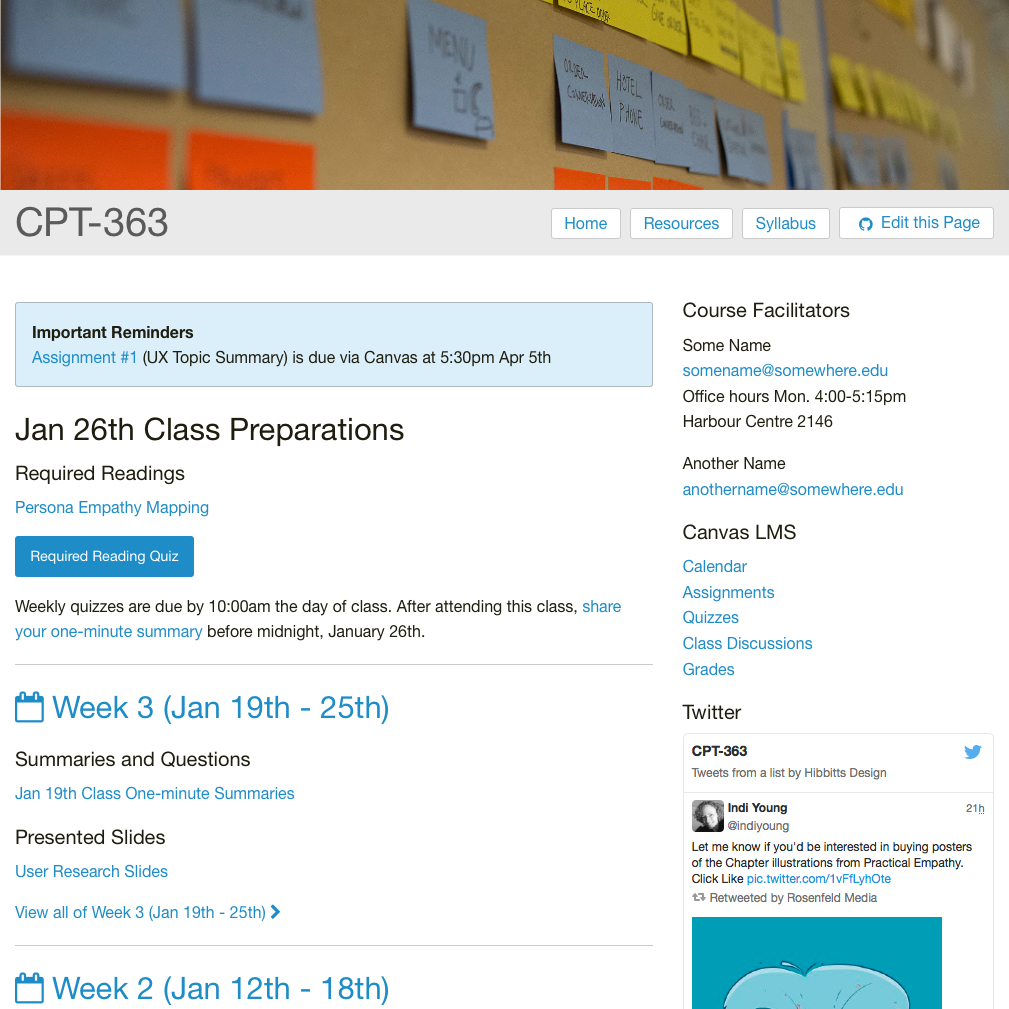
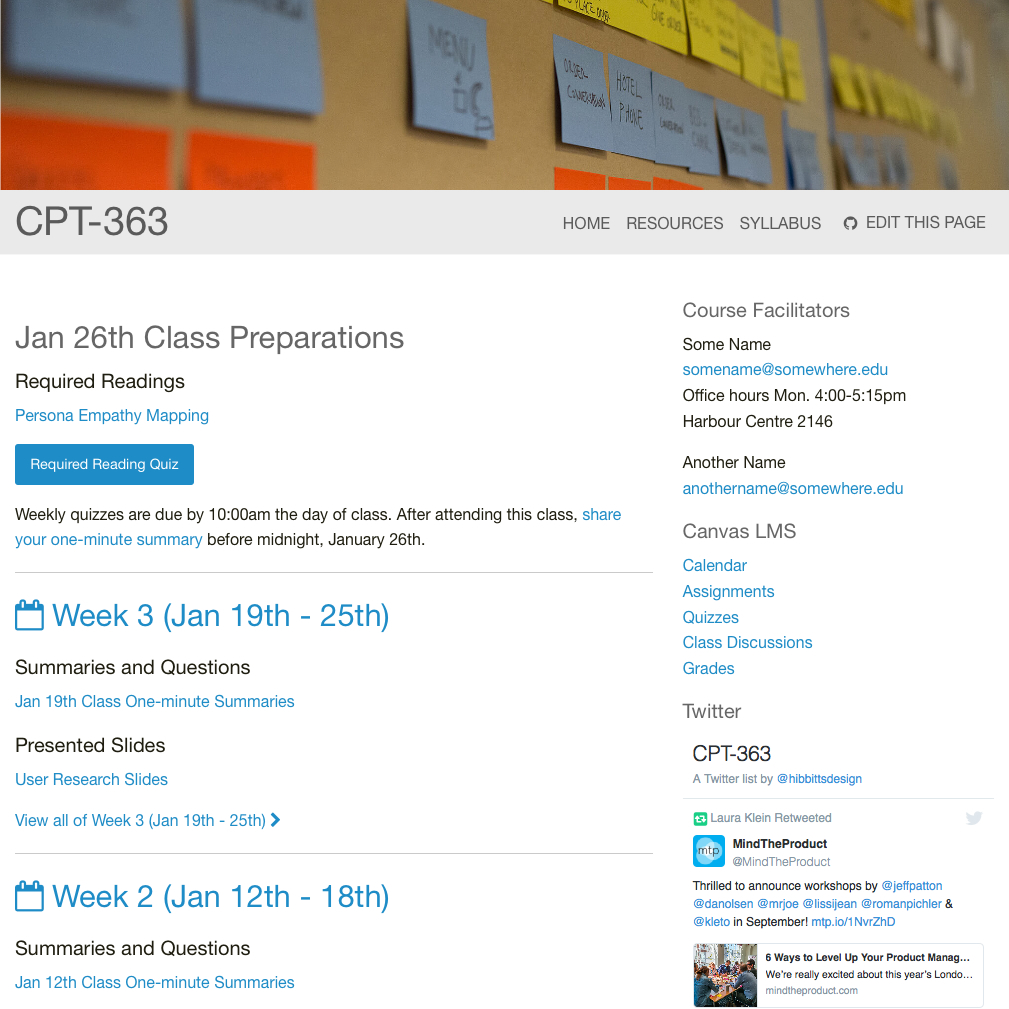
theme

diff --git a/user/themes/course-hub-bones/css/custom.css b/user/themes/course-hub-bones/css/custom.css
@@ -1,8 +1,38 @@
-#sg-mainmenu .menu > li > a {
-  padding: .4rem 0.4rem;
-  border: 1px solid;
+#sg-mainmenu .menu > li > a, #sg-mainmenu .menu > li.active > a {
+  color: #5A5A5A;
+  background-color: transparent;
+  padding: 14px 8px 14px;
+  border: 0;
   border-radius: 3px;
-  margin-left: .4rem;
+  margin-left: 0;
+  text-transform: uppercase;
+}
+
+#sg-mainmenu .menu > li > a:hover, #sg-mainmenu .menu > li.active > a:hover {
+  color: #fff;
+  background-color: #a0a0a0!important;
+  border: 0;
+}
+
+#sg-mainmenu .menu > li.active > a, #sg-mainmenu-mobile .menu > li.active > a {
+    background-color: transparent!important;
+}
+
+.sg-header {
+  height: 64px;
+  padding-top: 0;
+  padding-bottom: 0;
+}
+
+#header #sg-header-title h2 {
+    font-family: "Helvetica Neue",Helvetica,Roboto,Arial,sans-serif !important;
+    float: left;
+    letter-spacing: 0;
+    line-height: 60px;
+    margin: 16,6,6,6px;
+    padding: 0;
+    text-decoration: none;
+    color: #5A5A5A;
 }
 
 .sidebar-content h5 {
@@ -13,10 +43,6 @@
   text-align: center;
   font-size: 4em;
 }
-
-.sg-header {
-  padding-top: .45rem;
-  padding-bottom: 0.1rem; }
 
 #header {
     background-color: #eaeaea!important;
@@ -52,26 +78,8 @@
     }
 }
 
-#header #sg-header-title h2 {
-    font-family: "Helvetica Neue",Helvetica,Roboto,Arial,sans-serif !important;
-    float: left;
-    letter-spacing: 0;
-    line-height: 48px;
-    margin: 16,6,6,6px;
-    padding: 0;
-    text-decoration: none;
-}
-
-#header {
-    background-color: #fafafa;
-}
-
 #sg-mainmenu .menu > li.active > a, #sg-mainmenu-mobile .menu > li.active > a {
     background-color: #ffffff;
-}
-
-#header #sg-header-title h2 {
-    color: #5A5A5A;
 }
 
 .topstickypost h3 {

diff --git a/user/themes/course-hub-bones/CHANGELOG.md b/user/themes/course-hub-bones/CHANGELOG.md
@@ -1,3 +1,15 @@
+# v1.1.0
+## 04/18/2016
+
+1. [](#improved)
+    * Updated navbar styling
+
+# v1.0.3
+## 04/14/2016
+
+1. [](#bugfix)
+    * Restored Error and Problems plugins as dependencies
+
 # v1.0.2
 ## 04/14/2016
 
